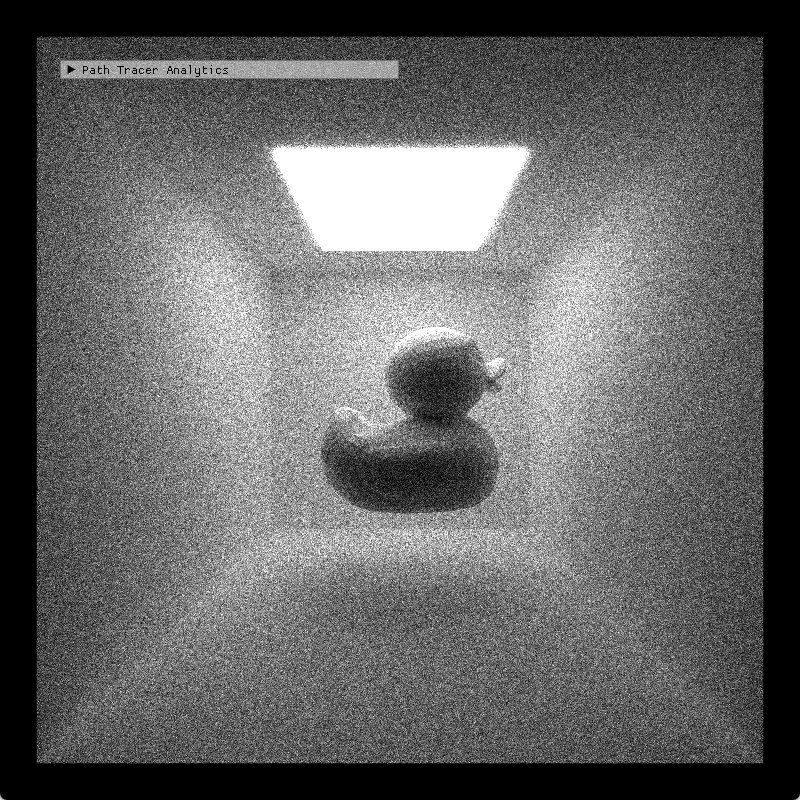
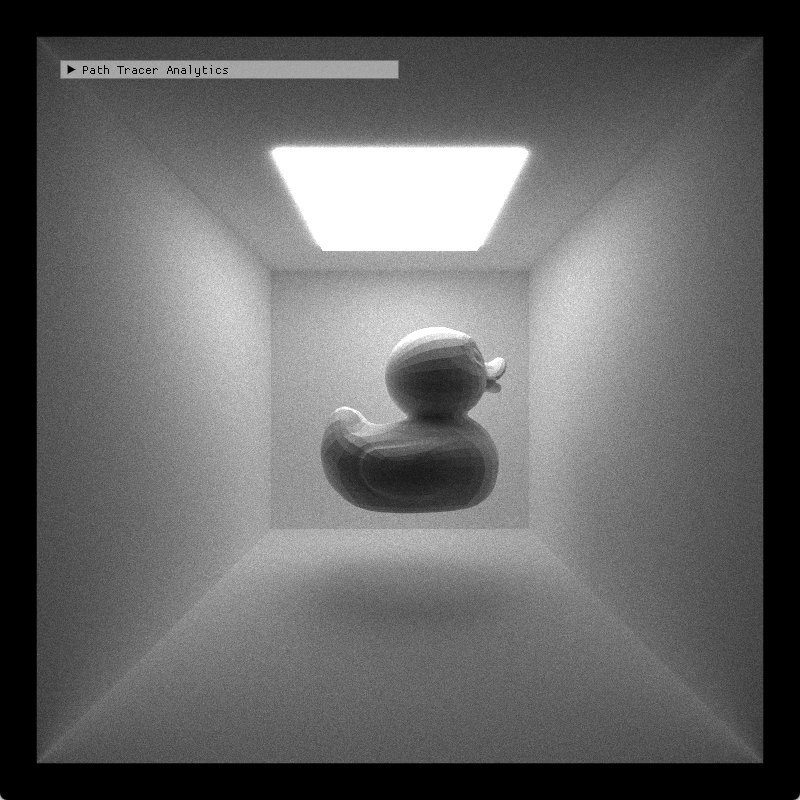
add timer

diff --git a/src/main.cpp b/src/main.cpp
@@ -59,6 +59,11 @@ GuiDataContainer* imguiData = NULL;
 ImGuiIO* io = nullptr;
 bool mouseOverImGuiWinow = false;
 
+cudaEvent_t start_event, stop_event;
+float elapsed_ms = 0.0f;
+double total_time_s = 0.0;
+long long total_iterations = 0;
+
 // Forward declarations for window loop and interactivity
 void runCuda();
 void keyCallback(GLFWwindow *window, int key, int scancode, int action, int mods);
@@ -286,6 +291,14 @@ void RenderImGui()
     //ImGui::Text("counter = %d", counter);
     ImGui::Text("Traced Depth %d", imguiData->TracedDepth);
     ImGui::Text("Application average %.3f ms/frame (%.1f FPS)", 1000.0f / ImGui::GetIO().Framerate, ImGui::GetIO().Framerate);
+    ImGui::Text("Camera Pos: %.2f, %.2f, %.2f", imguiData->CamPos.x, imguiData->CamPos.y, imguiData->CamPos.z);
+    
+    ImGui::Separator(); // Add a dividing line
+    ImGui::Text("GPU Render Time: %.3f ms/iteration", elapsed_ms);
+    if (total_time_s > 0) {
+        ImGui::Text("Average Throughput: %.2f iterations/sec", total_iterations / total_time_s);
+    }
+    ImGui::Separator();
     ImGui::End();
 
 
@@ -325,6 +338,10 @@ void mainLoop()
 
         glfwSwapBuffers(window);
     }
+
+    cudaEventDestroy(start_event);
+    cudaEventDestroy(stop_event);
+
 
     ImGui_ImplOpenGL3_Shutdown();
     ImGui_ImplGlfw_Shutdown();
@@ -382,6 +399,9 @@ int main(int argc, char** argv)
     // Initialize CUDA and GL components
     init();
 
+    cudaEventCreate(&start_event);
+    cudaEventCreate(&stop_event);
+
     // Initialize ImGui Data
     InitImguiData(guiData);
     InitDataContainer(guiData);
@@ -423,6 +443,10 @@ void runCuda()
     if (camchanged)
     {
         iteration = 0;
+
+        total_time_s = 0.0;
+        total_iterations = 0;
+
         Camera& cam = renderState->camera;
         cameraPosition.x = zoom * sin(phi) * sin(theta);
         cameraPosition.y = zoom * cos(theta);
@@ -452,6 +476,8 @@ void runCuda()
 
     if (iteration < renderState->iterations)
     {
+        cudaEventRecord(start_event, 0);
+
         uchar4* pbo_dptr = NULL;
         iteration++;
         cudaGLMapBufferObject((void**)&pbo_dptr, pbo);
@@ -460,11 +486,20 @@ void runCuda()
         int frame = 0;
         pathtrace(pbo_dptr, frame, iteration);
 
+
+        cudaEventRecord(stop_event, 0);
         // unmap buffer object
         cudaGLUnmapBufferObject(pbo);
+        cudaEventSynchronize(stop_event);
+        cudaEventElapsedTime(&elapsed_ms, start_event, stop_event);
+        total_time_s += elapsed_ms / 1000.0;
+        total_iterations++;
     }
     else
     {
+        std::cout << "Maximum iterations reached. Average throughput is " << total_iterations / total_time_s << " iterations/sec"  << std::endl;
+
+
         saveImage();
         pathtraceFree();
         cudaDeviceReset();

diff --git a/src/scene.cpp b/src/scene.cpp
@@ -127,16 +127,16 @@ bool Scene::loadGLTF(const std::string& filename, const glm::mat4& instance_tran
         }
 
         newMaterial.type = GLASS;
-        newMaterial.indexOfRefraction = 1.3f;
-        newMaterial.abbe = 30.0f;
+        newMaterial.indexOfRefraction = 1.4f;
+        newMaterial.abbe = 10.0f;
 
         if (pbr.baseColorFactor.size() == 4) {
             newMaterial.color = glm::vec3(pbr.baseColorFactor[0], pbr.baseColorFactor[1], pbr.baseColorFactor[2]);
             newMaterial.color = glm::vec3(0.5, 1.0, 0.5f);
-            newMaterial.color = glm::vec3(1.0, 1.0, 1.0f);
+            newMaterial.color = glm::vec3(0.999, 0.999, 0.999f);
         }
 
-        newMaterial.color = glm::vec3(1.0, 1.0, 1.0f);
+        newMaterial.color = glm::vec3(0.999, 0.999, 0.999f);
 
         this->materials.push_back(newMaterial);
     }

diff --git a/src/utilities.h b/src/utilities.h
@@ -16,12 +16,16 @@
 #define BLOCKSIZE1d 256
 
 #define ENABLE_DEPTH_OF_FIELD 0
-#define ENABLE_SPECTRAL_RENDERING 1
+#define ENABLE_SPECTRAL_RENDERING 0
+#define ENABLE_STOCHASTIC_ANTIALIASING 1
 
 #define ENABLE_WAVEFRONT 1
 
 #define ENABLE_MATERIAL_SORTING (!ENABLE_WAVEFRONT && 1)
 #define ENABLE_TERMINATE_DEAD_RAYS 1
+
+#define ENABLE_GLASS 1
+#define ENABLE_SPECULAR 1
 
 #define PI                3.1415926535897932384626422832795028841971f
 #define TWO_PI            6.2831853071795864769252867665590057683943f
@@ -184,8 +188,9 @@ inline __device__ glm::vec3 f_diffuse(glm::vec3 albedo) {
 class GuiDataContainer
 {
 public:
-    GuiDataContainer() : TracedDepth(0) {}
+    GuiDataContainer() : TracedDepth(0), CamPos(glm::vec3(0.0)) {}
     int TracedDepth;
+    glm::vec3 CamPos;
 };
 
 namespace utilityCore

diff --git a/README.md b/README.md
@@ -20,14 +20,15 @@ CUDA Path Tracer
 - glTF Loading
 - Stochastic Antialiasing
 - Fake Spectral Rendering, Dispersion
-- Russian Roulette Path Termination
 - Wavefront Path Tracing
 
-## Visual Feature Details
+## Feature Details
 
 ### Diffuse BSDF, Perfect Reflection & Refraction
 
 ![](./img/baseResults.png)
+
+`./scenes/cornell_defuse_scene.json`
 
 - **Lambertian Diffuse**: Cosine-weighted hemisphere sampling for diffusion sampling. 
 - **Perfect Reflection & Refraction**: Fresnel-based refraction using [`FrDielectric()`](https://www.pbr-book.org/4ed/Reflection_Models/Specular_Reflection_and_Transmission#FrDielectric) for glass material.
@@ -38,13 +39,56 @@ The provided code inverts the surface normals when a ray is inside a glass mediu
 
 ![](./img/debug-refraction.png)
 
-### Depth of Field
+### Depth of Field (DoF)
+| Aperture 1.2, Focal Distance 1.5 | Aperture 22, Focal Distance 1.0 |
+| -------------------------------- | ------------------------------- |
+| ![](./img/dofAperture1.png.png)  | ![](./img/dofAperture22.png)    |
 
+`./scenes/cornell_dof.json`
 
 
 - Allow adjust three parameters `Focal Length`, `Aperture` `Focus Distance`like a real camera through `"FOCALLENGTH"`, `FAPERTURE`, `"FOCUSDISTANCE"` of camera in scene `.json` file.
 
 
+### glTF Loading
+
+![](./img/gltfduck.png)
+
+`./scenes/cornell-whiteduck.json`
+
+glTF is a standard file format for three-dimensional scenes and models. In my implementation, the Transformations (TRS), normals, and base colors of the objects were extracted correctly. However, the material properties are not currently working well.
+
+### Fake Spectral Rendering, Dispersion
+
+| RGB Based Rendering     | Fake Spectral Rendering     |
+| ----------------------- | --------------------------- |
+| ![](./img/rgbbased.png) | ![](./img/fakespectral.png) |
+
+`./scenes/cornell_show_dispersion.json`
+
+In the physical world, light is characterized not by RGB values, but by its wavelength. A significant visual phenomenon resulting from this is dispersion, which occurs because the index of refraction (IOR) of a medium is physically dependent on the wavelength of light (λ). For example, sunlight is a continuous spectrum spanning roughly 400 nm (purple) to 700 nm (red). When this light passes through a transmissive object, such as a prism, the variation in IOR causes the light to separate, creating a visible spectrum or color band. This physical effect is why we observe rainbows after rain and color fringing near caustics.
+
+To simulate this spectral effect, my implementation treats light as wavelength instead of the traditional RGB model. When the camera generates rays (`CameraGenerateRays`), each ray randomly samples a single wavelength from the spectrum. All subsequent physical interactions (refraction, reflection) are calculated based on this single sampled wavelength, using the **λ-dependent index of refraction**. This approach effectively introduces an **additional dimension of integration over the wavelength spectrum** into the Monte Carlo path tracing integral.
+
+My current approach relies on several assumptions and approximations. When a ray hits a Lambertian material, the ray's **throughput is determined by the sampled wavelength and the object's RGB value components**. For instance, if the sampled wavelength is λ=680 nm ("red" because >600 nm), I use the object's **Red component** (`color.r`) to calculate reflectivity. This coarse approximation, which maps a continuous spectral response to discrete RGB components, leads to **energy loss**, causing the final image to appear somewhat **desaturated or "grayed out."**, that's why I call this feature is fake. The correct method would require a Spectral Reflectance Curve to describe how the material responds to every wavelength. Implementing this level of accuracy is currently beyond the scope of my capabilities.
+
+When the ray finally terminates at a light source, the accumulated spectral result is converted back to an RGB color using a **fitting function** implemented in [HIPRT-Path-Tracer](https://github.com/TomClabault/HIPRT-Path-Tracer/blob/main/src/Device/includes/Dispersion.h). This final RGB value is then saved to the image buffer.
+
+#### Dispersion
+
+The strength of the **dispersion** is governed by the **Index of Refraction (IOR)** `"IOR"`and the **Abbe number** `"ABBE"`. IOR describes a medium's ability to refract a light ray and Abbe describes the **rate of change of IOR** as a function of wavelength.
+
+A material with **low dispersion** (or a high Abbe number) will **exhibit a wider color band but with lower radiant energy concentration in any single spot**. Conversely, high dispersion (low Abbe number) yields a stronger radiance concentration in a narrower band. Due to the high sensitivity and small size of these narrow bands, simulating them accurately requires significantly more samples because the probability of a randomly sampled ray hitting that specific, highly concentrated light region is low.
+
+### Stochastic Antialiasing
+
+| On                      | Off                            |
+| ----------------------- | ------------------------------ |
+| ![](./img/rgbbased.png) | ![](./img/antialiasingoff.png) |
+
+`./scenes/cornell_show_dispersion.json`
+
+For each pixel, every iteration generates a ray with a slightly different, random starting point on that pixel. It is the essential mechanism that provides the **random samples** required for the path tracer to work correctly and converge to a final image. If it is turned off, the path is deterministic that it will have the same color outcome everytime.
 
 ### Wavefront Path Tracing
 
@@ -62,13 +106,30 @@ As this is a performance optimization, the rendered results for the same scene a
 
 
 
-### glTF Loading
+## Performance Analysis
 
-![](./img/gltfduck.png)
+### Wavefront Path Tracing
 
-glTF is a standard file format for three-dimensional scenes and models. In my implementation, the Transformations (TRS), normals, and base colors of the objects were extracted correctly. However, the material properties are not currently working well.
+Although the wavefront approach mitigates the divergence issue, it introduces** an additional partitioning stage** to sort the work. In my implementation, a large block of memory (equal to the total number of paths) is pre-allocated for each dedicated kernel to ensure sufficient space. `atomicAdd` is then used to safely manage concurrent writes to these queues. The hypothesis is that for scenes with few material types, where divergence is not a severe problem, the overhead of this approach may cause it to be slower than a simple megakernel.
+
+![](./img/wavefrontperformance.svg)
+
+*Note that these results are scene-dependent. The performance impact of divergence can vary based on the scene's material composition. Furthermore, since the computational cost is not identical for each material implementation, the specific materials used can also introduce variability into the benchmarks.*
+
+As shown in the graph,**the standard Megakernel approach is the fastest for rendering the scene (DoF showcase) when it contains only one (Lambertian) or two (Lambertian + Specular) material types**, slightly outperforming the Wavefront approach. A huge performance drop was observed with the "Megakernel + Material Sorting" method, which is likely due to the overhead of executing a separate `thrust::stable_sort` pass on every bounce.
+
+Surprisingly, while the Wavefront method's partitioning achieves the same goal as material sorting, it does not suffer the same dramatic performance penalty. This suggests that its integrated "intersect-and-partition" kernel is more efficient than running a separate, generic sort.
+
+When adding the new Glass material, the Wavefront approach's performance dropped by 3.42% (from 29.2 to 28.2 fps). In comparison, the Megakernel approach saw a larger performance drop of 5.12% (from 31.2 to 29.6 fps). This result supports the expectation that **the Wavefront architecture can handle new, complex material types at a smaller relative performance cost**. This benefit should become more pronounced as the number of divergent materials in the scene increases.
+
+
 
 ### Fake Spectral Rendering, Dispersion
 
+| RGB Based Rendering           | Fake Spectral Rendering                |
+| ----------------------------- | -------------------------------------- |
+| ![](./img/rgbperformance.png) | ![](./img/fakespectralperformance.png) |
 
+*Note that this is a fake one and requires some color spaces converting and more timer to converge as it adds an aditional integration domain over wavelength*
 
+As there is no sampling of the actual Spectral Reflectance Curve and the ray-material interaction is corasely simplified, the performance of the spectural rendering is slightly better than the  RGB based one, as it only handles the wavelength 
